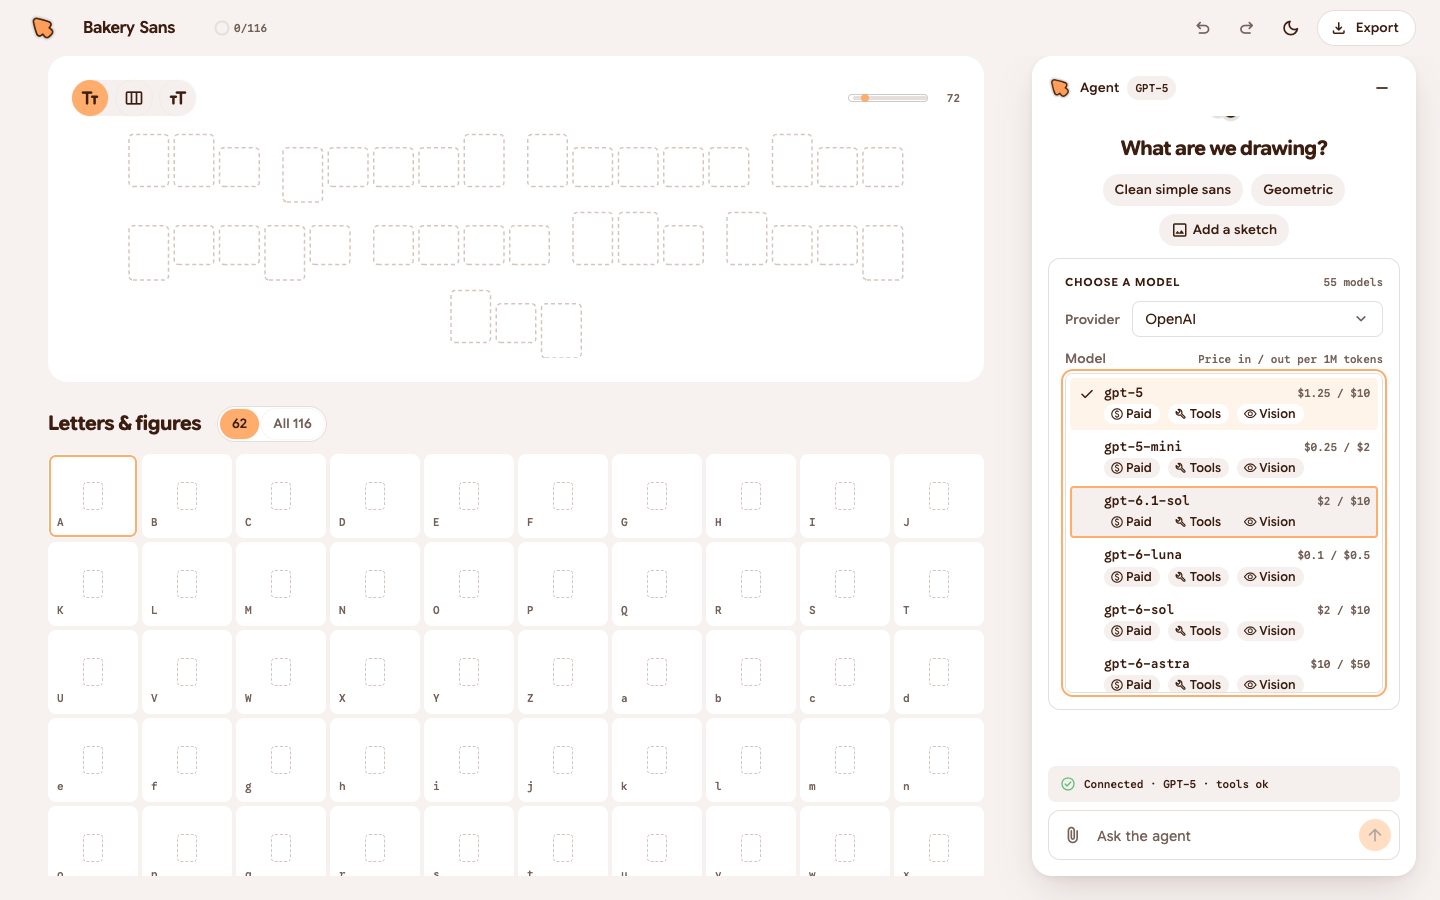
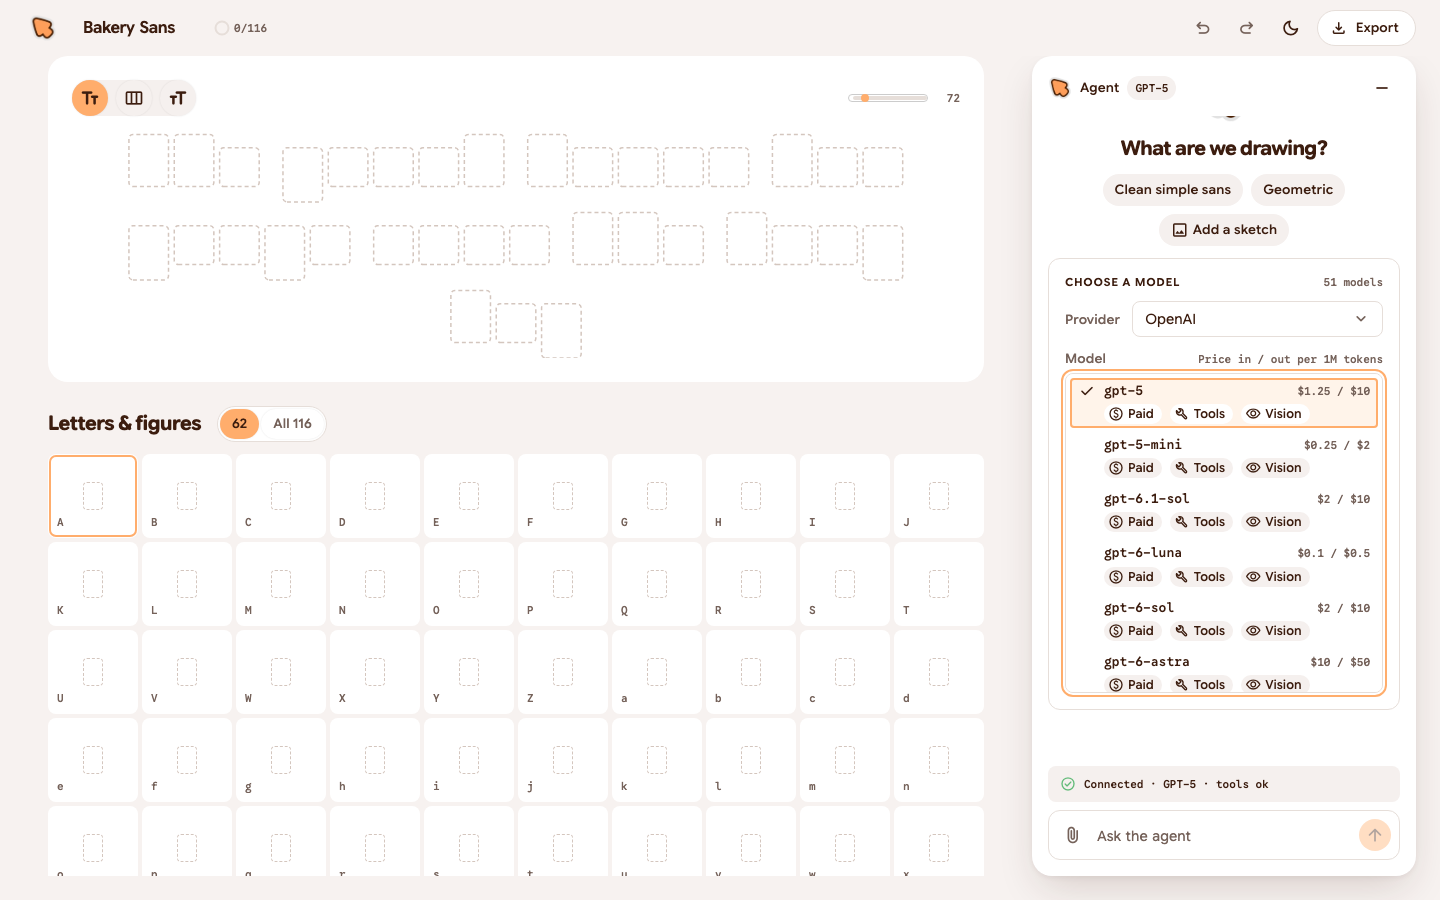
docs(agent): document list focus, provider-change drop and greyed-row badges, refresh screenshots
PROVIDERS.md now states what the card does with mouse presses and keyboard
focus, that changing the provider drops the list and the key copy, and that a
greyed row still shows Free or Paid and Vision. The three screenshots for #76
are retaken against the fixed build (mocked relay reply, bundled snapshot data).

diff --git a/docs/agent/PROVIDERS.md b/docs/agent/PROVIDERS.md
@@ -61,9 +61,11 @@ The key goes only to its own provider's host. Errors are mapped from the status 
 
 A model the catalog does not know has no price badge and `Tools ?`; a dated ID (`…-20251001`) or `-latest` alias uses its plain model's entry. Catalog entries typed `embedding`, `image` or `realtime`, and unknown IDs that are plainly not chat models (embedding, whisper, tts, dall-e, moderation, transcribe, realtime, image), count as unable to use tools.
 
-**What the card does with it.** The list is ordered: the provider's suggested models first, then other tool-capable models (newest first), then models with unknown tool support, then models that cannot be chosen. A model with `tools: false` is greyed out, `aria-disabled`, and says "Can't use tools — the agent needs them" in its row. A Zen model whose API format Automatic routing does not know (the card has no Advanced format choice) is greyed out the same way, with its own reason, because choosing it could never connect. Choosing a model the catalog says uses tools reconnects with no billed call, since the key is already verified; choosing a model with unknown tool support, or a **Custom…** ID, first makes the same one tiny billed call as "Check connection". The list is a listbox (arrows, Home/End, Page keys, Enter or Space, type-ahead, Esc) and each row's accessible name includes its badges. Choosing another provider returns to that provider's key step and default model; the previous connection stays until a new check succeeds.
+**What the card does with it.** The list is ordered: the provider's suggested models first, then other tool-capable models (newest first), then models with unknown tool support, then models that cannot be chosen. A model with `tools: false` is greyed out, `aria-disabled`, and says "Can't use tools — the agent needs them" in its row, followed by the badges that still apply (Free or Paid, and Vision; never Tools, since the reason covers it). A Zen model whose API format Automatic routing does not know (the card has no Advanced format choice) is greyed out the same way, with its own reason, because choosing it could never connect. Choosing a model the catalog says uses tools reconnects with no billed call, since the key is already verified; choosing a model with unknown tool support, or a **Custom…** ID, first makes the same one tiny billed call as "Check connection". The list is a listbox (arrows, Home/End, Page keys, Enter or Space, type-ahead, Esc) and each row's accessible name includes its badges. Choosing another provider drops the list and the key copy kept for it and returns to that provider's key step and default model; the previous connection stays until a new check succeeds, and coming back to the first provider asks for its key again.
 
-**Keys and cache.** The key is never stored, logged, cached or put in a URL. The card keeps a copy in memory only while the list is shown, so another model can be verified; it is dropped on disconnect, on connecting another provider and when the panel is disposed. The browser holds the list in memory for the session only; the relay caches nothing per key. The list is part of the empty state of the agent panel, so a model is chosen before the first message (clearing the chat brings it back).
+Mouse and keyboard: a mouse press on a row focuses the list without scrolling it, so the row under the pointer stays where it is and the click is not lost (only keyboard focus scrolls the active row into view). Keyboard focus stays on the list after "Check connection" and after choosing a model, so the list can be browsed; Tab goes on to the composer. When the list cannot be loaded, or focus was elsewhere when the check finished, the composer is focused as it was before the list existed.
+
+**Keys and cache.** The key is never stored, logged, cached or put in a URL. The card keeps a copy in memory only while the list is shown, so another model can be verified; it is dropped, with the list, when the provider is changed, on disconnect, when another connection replaces it and when the panel is disposed. The browser holds the list in memory for the session only; the relay caches nothing per key. The list is part of the empty state of the agent panel, so a model is chosen before the first message (clearing the chat brings it back).
 
 ## Browser contract
 
